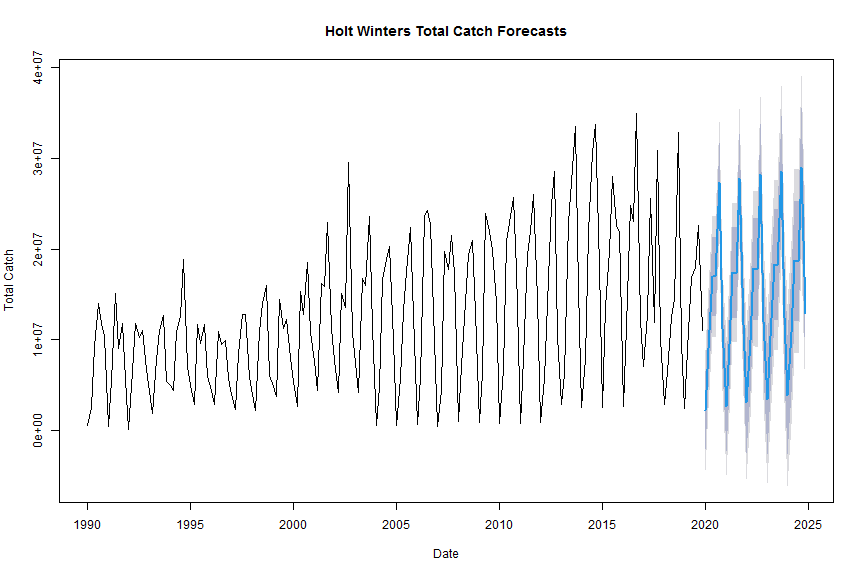
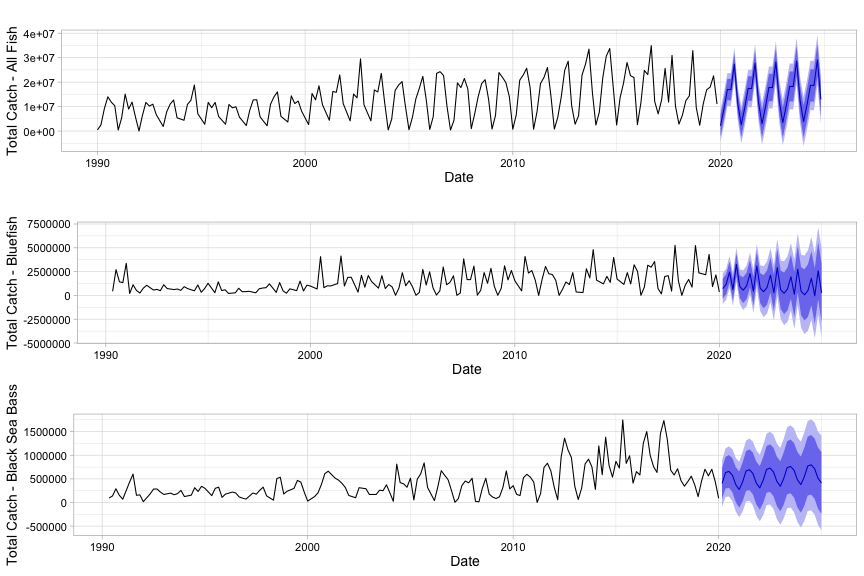
Forecasting work on RMD and pres.

diff --git a/FinalPresentation.md b/FinalPresentation.md
@@ -120,3 +120,8 @@ Forecasting
 Discussion
 ========================================================
 Text of why stuff happened.
+[note:just ideas/scattered thoughts below]
+forecasting: note that Holt Winters weighs more recent data more heavily than older data (e.g. bluefish total trend is postiive but forecasted trend looks negative) and predicts data without much noise in it, which is unlikely to be the case IRL. Useful visualization but inaccurate bc of complexities in fishing data. (could go above w forecasting slides)
+
+general trends: Seasonal trends look different between all species, bluefish, and seabass. Can be from different fishing seasons and fish availability throughout the year. Overall positive trend in all fish species catch is due to [how many?] different species' influence, so blue and BSB catch won't necessarily align with this. but we do see a postiive trend in each one, albeit to differing extents. Irregularities in these data can occur due to shifts in policy, e.g. recreational catch limits or changes in limits. Recreational catch data are also estimates based on surveys - they use the best available science from NOAA but ultimately cannot 100% accurately reflect actual catch numbers, which would require accurate self reporting from every rec fisher in NC. 
+
